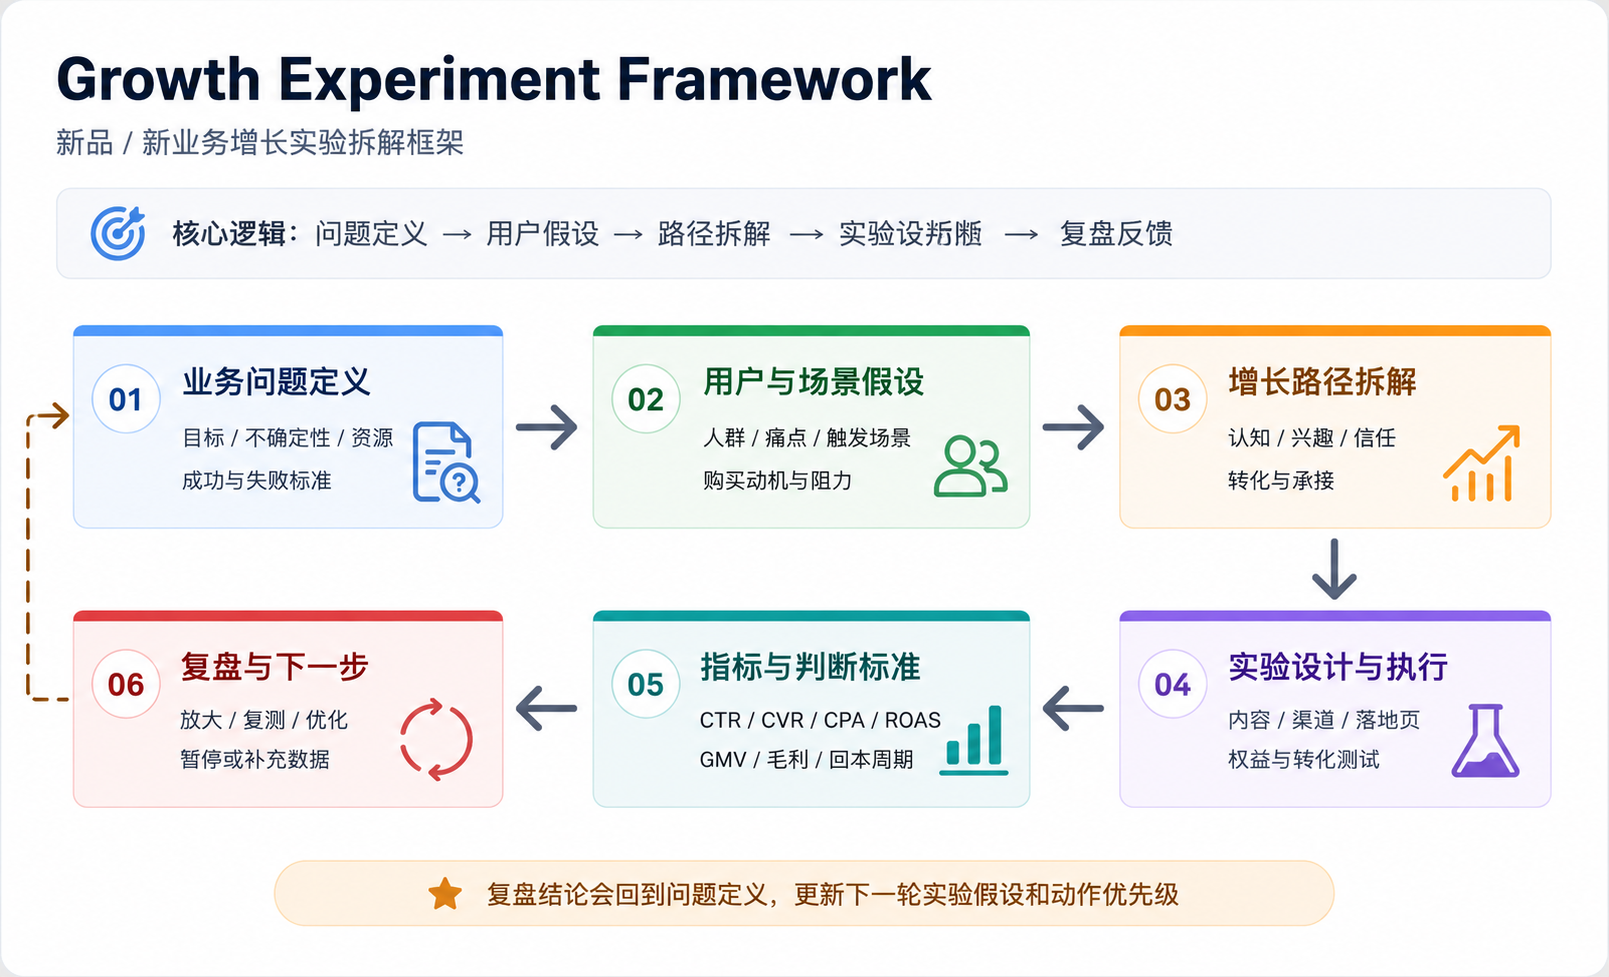
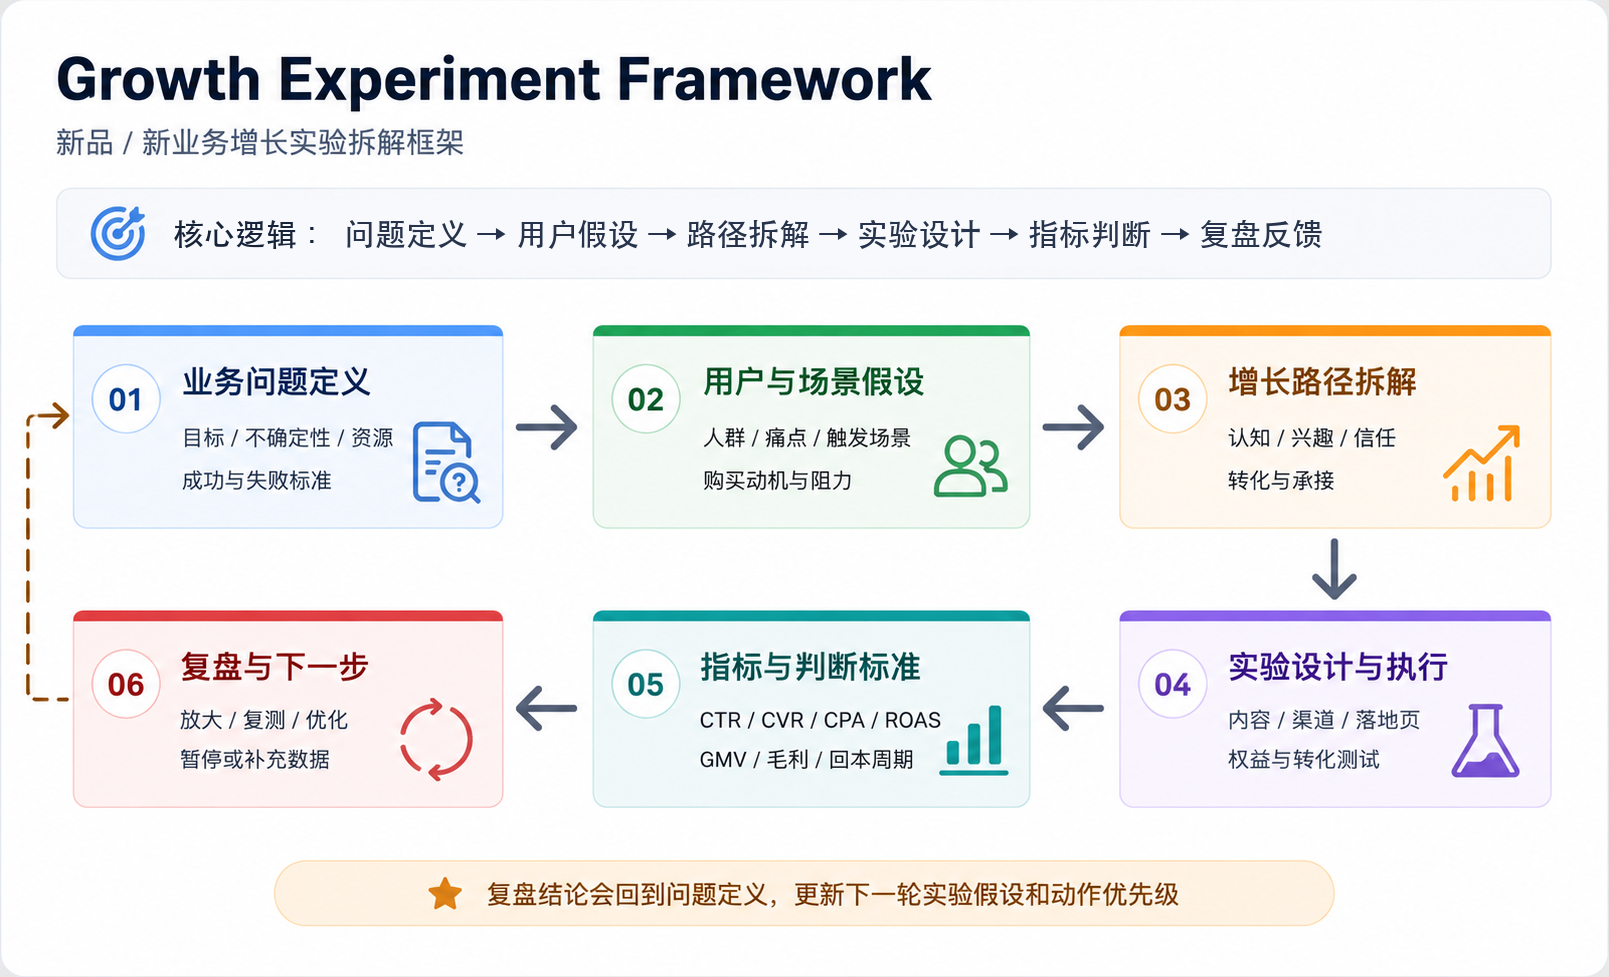
Fix experiment validation and preview copy

Changed region(s): [[0.0932, 0.2149, 0.839, 0.2764]]

diff --git a/scripts/validate_experiment_plan.py b/scripts/validate_experiment_plan.py
@@ -29,7 +29,7 @@ def is_blank(value: str | None) -> bool:
 
 
 def validate_file(input_path: Path, invalid_rows_path: Path) -> int:
-    invalid_rows: list[dict[str, str]] = []
+    rows: list[tuple[int, dict[str, str]]] = []
 
     with input_path.open("r", newline="", encoding="utf-8-sig") as input_file:
         reader = csv.DictReader(input_file)
@@ -45,11 +45,34 @@ def validate_file(input_path: Path, invalid_rows_path: Path) -> int:
             output_fields.append("错误信息")
 
         for row_number, row in enumerate(reader, start=2):
-            missing_fields = [field for field in REQUIRED_FIELDS if is_blank(row.get(field))]
-            if missing_fields:
-                output_row = dict(row)
-                output_row["错误信息"] = f"第 {row_number} 行缺少字段：" + "，".join(missing_fields)
-                invalid_rows.append(output_row)
+            rows.append((row_number, row))
+
+    experiment_id_counts: dict[str, int] = {}
+    for _, row in rows:
+        experiment_id = (row.get("实验编号") or "").strip()
+        if experiment_id:
+            experiment_id_counts[experiment_id] = experiment_id_counts.get(experiment_id, 0) + 1
+
+    invalid_rows: list[dict[str, str]] = []
+    for row_number, row in rows:
+        errors: list[str] = []
+        missing_fields = [field for field in REQUIRED_FIELDS if is_blank(row.get(field))]
+        if missing_fields:
+            errors.append("缺少字段：" + "，".join(missing_fields))
+
+        experiment_id = (row.get("实验编号") or "").strip()
+        if experiment_id and experiment_id_counts[experiment_id] > 1:
+            errors.append(f"实验编号重复：{experiment_id}")
+
+        if errors:
+            output_row = dict(row)
+            output_row["错误信息"] = f"第 {row_number} 行" + "；".join(errors)
+            invalid_rows.append(output_row)
+
+    if not invalid_rows:
+        if invalid_rows_path.exists():
+            invalid_rows_path.unlink()
+        return 0
 
     invalid_rows_path.parent.mkdir(parents=True, exist_ok=True)
     with invalid_rows_path.open("w", newline="", encoding="utf-8") as output_file:
@@ -82,7 +105,7 @@ def main() -> int:
         print(f"Found {invalid_count} invalid rows. Details written to {invalid_rows_path}")
         return 1
 
-    print(f"Validation passed. Empty invalid rows file written to {invalid_rows_path}")
+    print("Validation passed. No invalid rows found.")
     return 0
 
 

diff --git a/README.md b/README.md
@@ -101,8 +101,10 @@ python3 scripts/validate_experiment_plan.py examples/example_experiment_plan.csv
 脚本会输出：
 
 - 缺失字段所在行
+- 重复的实验编号
 - 每行缺失了哪些关键字段
-- 可用于后续补充的 `invalid_rows.csv`
+- 如果有错误，会生成可用于后续补充的 `invalid_rows.csv`
+- 如果没有错误，不会生成错误行文件
 
 ## 01 业务问题定义
 